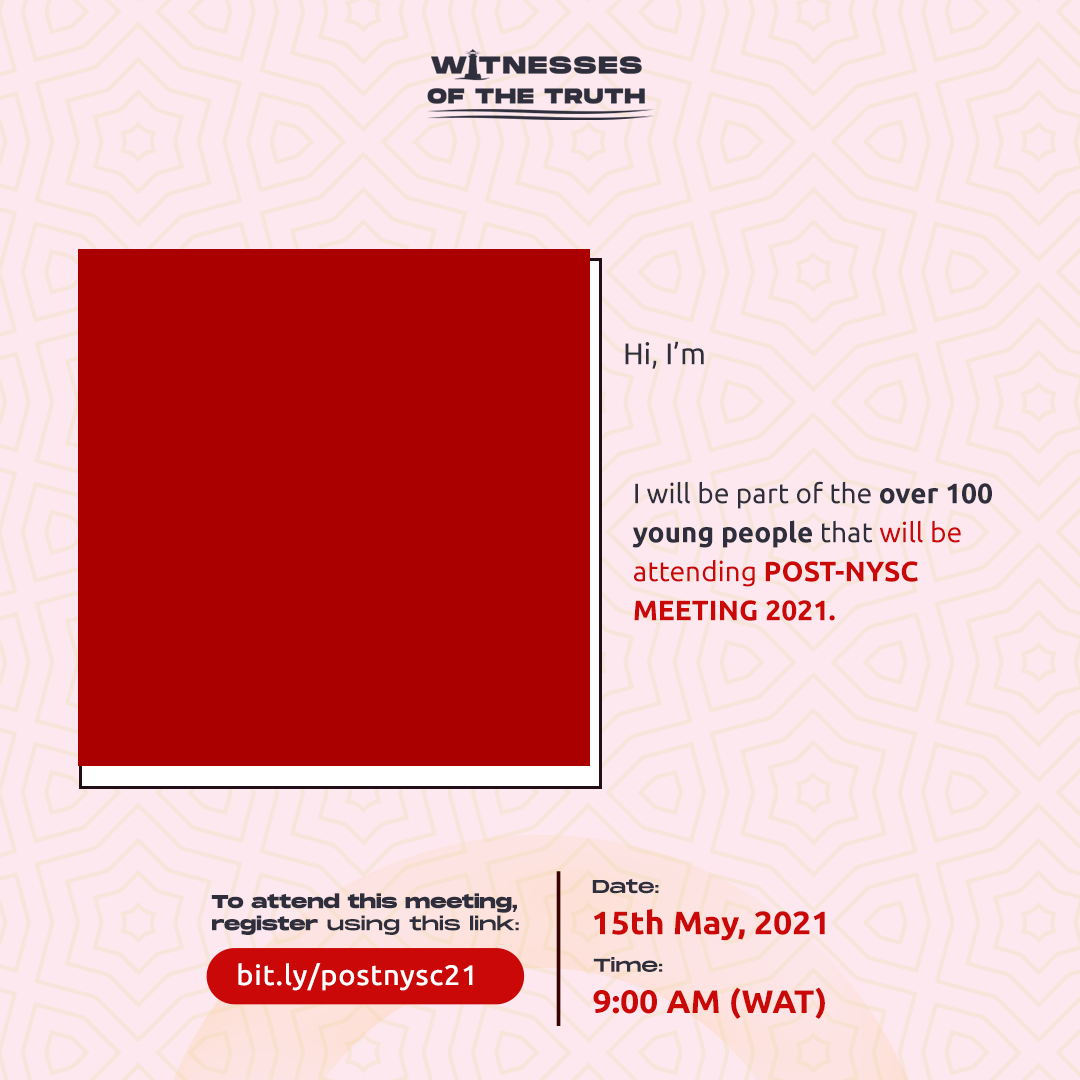
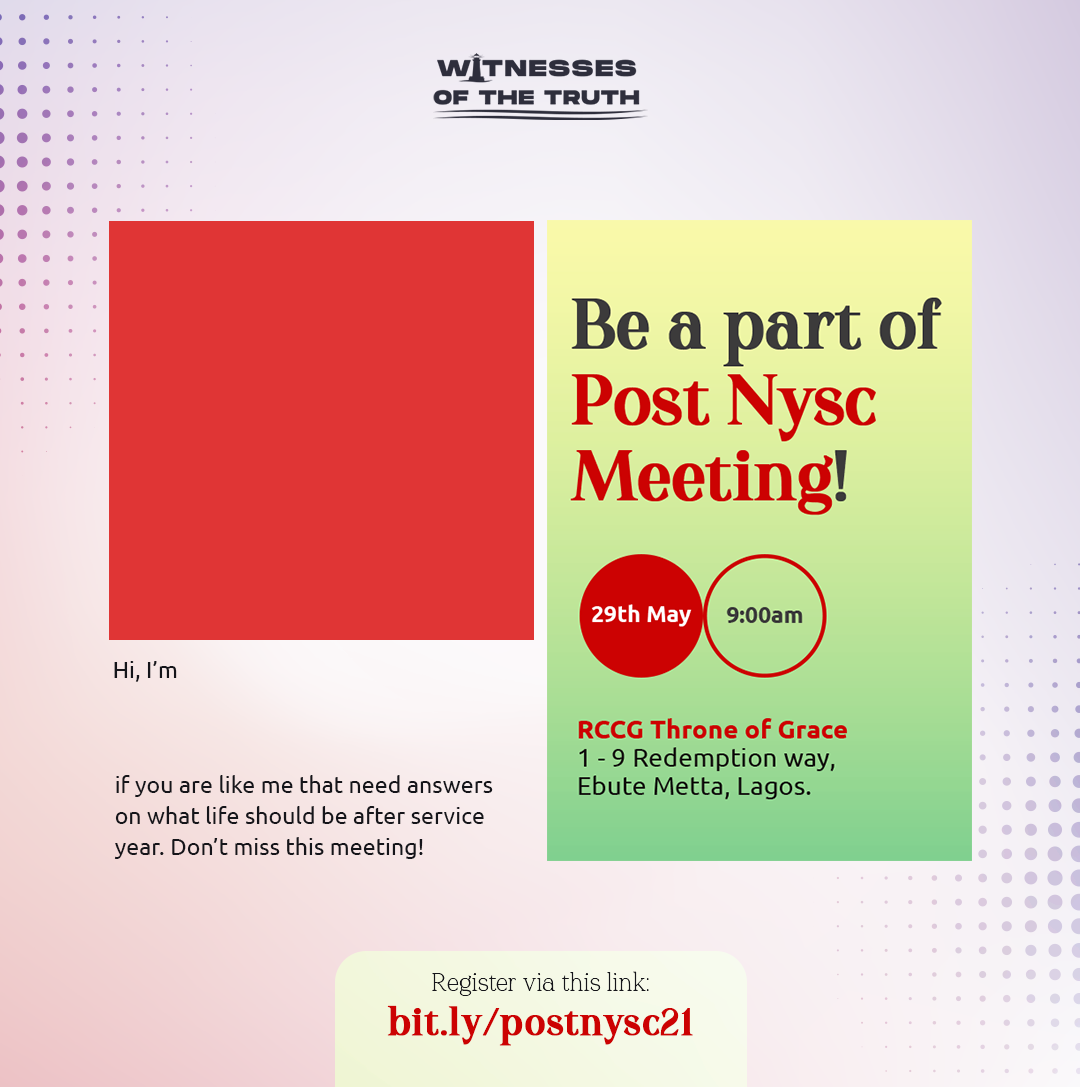
frame change

diff --git a/public/src/js/main.js b/public/src/js/main.js
@@ -112,9 +112,9 @@ $(function () {
     button.attr("disabled", "disabled").html("...processing");
 
     // x, y, width, height
-    const picData = [78.3, 248.9, 511.7, 516.7];
+    const picData = [108.5, 220.7, 424.9, 418.9];
     // name, y, x
-    const nameData = [`${firstName}`, 381, 626, testimony];
+    const nameData = [`${firstName}`, 692, 119, testimony];
     // const nameData = [firstName + ",", 1295, 685, ministryName];
 
     createDP(firstName, imageData, picData, nameData, function (url) {
@@ -270,8 +270,8 @@ $(function () {
       //Write user name
       ctx.textBaseline = "top";
       ctx.textAlign = "left";
-      ctx.font = "44px Ubuntu-Bold";
-      ctx.fillStyle = "#ca0808";
+      ctx.font = "68px Thunderlightening_Personal";
+      ctx.fillStyle = "#cc0202";
       var canvasText = name[0];
       ctx.fillText(canvasText, name[2], name[1]);
       // ctx.renderText(name[3], name[2], name[1], 1);

diff --git a/public/src/css/style.css b/public/src/css/style.css
@@ -555,7 +555,7 @@ footer .social {
   border: dashed 1px;
   border-radius: 3px;
   margin-top: 7px;
-  width: 248px;
+  width: 254px;
   margin-left: 20%;
   height: 250px;
 }
@@ -687,7 +687,7 @@ button[type="submit"] {
   }
   .cropit-preview {
     width: 260px;
-    height: 263px;
+    height: 257px;
     margin-left: 5%;
   }
   .arrow-back {
@@ -717,7 +717,7 @@ button[type="submit"] {
   }
   .cropit-preview {
     width: 225px;
-    height: 227px;
+    height: 222px;
     margin-left: 5%;
   }
   .under p {
@@ -850,4 +850,11 @@ button[type="submit"] {
 @font-face {
   font-family: "TTCommons-Regular";
   src: url("../../assests/fonts/TTCommons/TTCommons-Regular.ttf");
+}
+
+/* Thunderlightening */
+/* Regular */
+@font-face {
+  font-family: "Thunderlightening_Personal";
+  src: url("../fonts/thunderlightning_script/Thunderlightning\ Script\ Personal\ Use.otf");
 }

diff --git a/public/register.html b/public/register.html
@@ -62,7 +62,11 @@
         /></a>
       </div>
       <div id="header-text">
-        <h1 style="font-family: Ubuntu-Bold">#PostNYSC21</h1>
+        <h1 style="font-family: Thunderlightening_Personal">
+          #PostNYSC<span style="font-family: Autography; font-size: inherit"
+            >21</span
+          >
+        </h1>
       </div>
     </header>
     <main>
